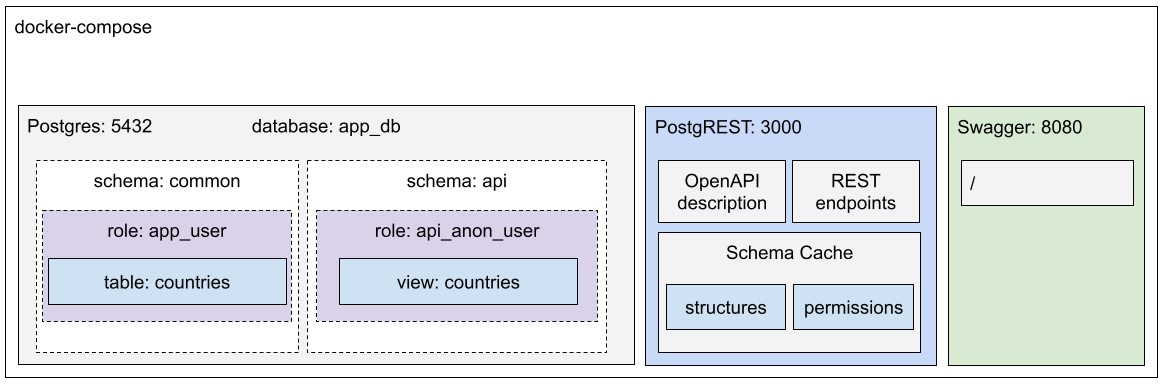
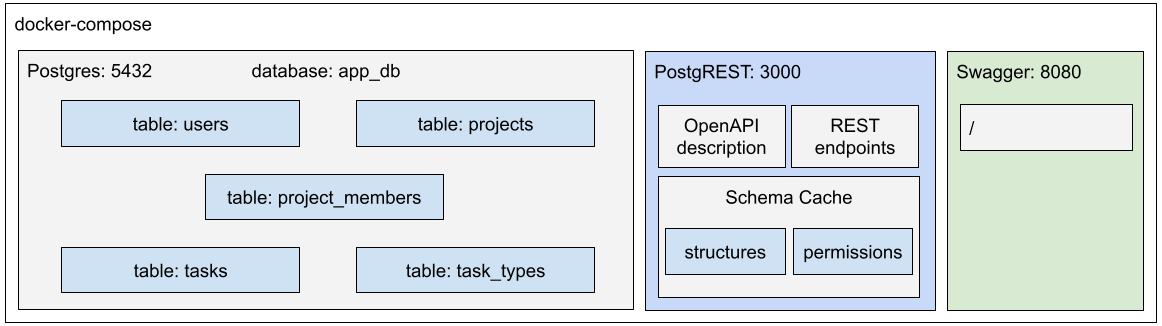
Tutorial updates

diff --git a/README.md b/README.md
@@ -40,14 +40,6 @@ The sequence of commands above fetches the microservices/containers infrastructu
 
 PS.: Links are available only locally and after starting the containers.
 
-```shell
-###########################################################################
-# DISCLAIMER: The steps outlined below are cited for documentation and explanation purposes only.
-# Therefore, it is NOT necessary to run them since the entire process of deploying the API
-# has already been carried out automatically as it is written within the Infrastructure as Code (IaC) paradigm.
-###########################################################################
-```
-
 ## Why use PostgREST?
 
 Regarding systems development, a subject that always arouses my interest is code reuse and automatic code generation. There is a fair amount of boilerplate code, especially at the project's beginning, that can be easily generated automatically using special tools.
@@ -55,27 +47,27 @@ Regarding systems development, a subject that always arouses my interest is code
 An excellent example of applying this technique can be the rapid development of a REST API, a demand common to almost all projects. In this article, we will talk about PostgREST.
 
 PostgREST allows you to deploy a robust REST API with the following functionalities list with minimal effort:
-* CRUD basic operations
-* HTTP verbs: GET, POST, PUT, PATCH, DELETE and HEAD
-* OpenAPI description
-* Authentication
-* Horizontal filtering (selecting lines)
-* Vertical filtering (selecting columns)
-* 30 different operators ([link](https://postgrest.org/en/stable/references/api/tables_views.html#operators))
-* More complicated filters and joins using views
-* Full-Text search
-* Ordering
-* Limits and Pagination
-* Resource embedding
-* Bulk insert
-* Upsert (update or insert)
-* among others
+* CRUD basic operations;
+* HTTP verbs: GET, POST, PUT, PATCH, DELETE and HEAD;
+* OpenAPI description;
+* Authentication;
+* Horizontal filtering (selecting lines);
+* Vertical filtering (selecting columns);
+* 30 different operators ([link](https://postgrest.org/en/stable/references/api/tables_views.html#operators));
+* More complicated filters and joins using views;
+* Full-Text search;
+* Ordering;
+* Limits and Pagination;
+* Resource embedding;
+* Bulk insert;
+* Upsert (update or insert);
+* among others;
 
 ## Understanding what's behind the magic
 
 ![](./doc/images/magic.gif "")
 
-According to the official website, PostgREST is a standalone web server that turns your PostgreSQL database directly into a RESTful API. The structural constraints and permissions in the database determine the API endpoints and operations.
+According to the official [website](https://postgrest.org/en/stable/), PostgREST is a standalone web server that turns your PostgreSQL database directly into a RESTful API. The structural constraints and permissions in the database determine the API endpoints and operations.
 
 ![](./doc/images/API-ecosystem-Postgrest-Workflow.png "")
 *Figure 2. API development workflow with PostgREST*
@@ -86,17 +78,17 @@ With this principle in mind, PostgREST performs a robust introspection in the da
 
 Figure 2 illustrates the development flow of a REST API using the PostgREST + Swagger ecosystem. According to the workflow above, the only necessary code input is the SQL commands responsible for defining the relational model.
 
-![](./doc/images/API-ecosystem-Postgrest-Workflow.png "")
+![](./doc/images/physical-database-model.png "")
 *Figure 3. Physical model of an example database*
 
-Figure 3 displays the physical model of the database used in this tutorial. Through the introspection of the structures present in the database, such as schemas, tables, columns, relationships, views, functions, and grant permissions, among others, PostgREST builds a cache that is used for the dynamic generation of structures that would be equivalent to the models and controllers of traditional API development. Note that in this approach, the database is not only limited to data persistence but also performs the function of being the main source of knowledge from which all information about structures and access permissions can be obtained.
+Figure 3 displays the physical model of the database used in this tutorial. Through the introspection of the structures present in the database, such as tables, columns, relationships, views, functions, and grant permissions, among others, PostgREST builds a cache that is used for the dynamic generation of structures that would be equivalent to the models and controllers writen by hand in a traditional API development. Note that in this approach, the database is not only limited to reliable data persistence but also performs the function of being the main source of knowledge from which all information about structures and access permissions can be obtained.
 
 For the implementation of CRUD endpoints, the effort is minimal, just modeling the structures in the database, which would already be done anyway. With only the input of SQLs, PostgREST can already offer the CRUD endpoints of each entity, as well as the technical description of the API in OpenAPI format. Finally, from this description, Swagger renders the documentation page (Figure 4).
 
 ![](./doc/images/swagger-example.png "")
 *Figure 4. Swagger documentation page automatically generated from the database schema*
 
-## Exposing REST endpoints
+## PostgREST configuration
 
 ![](./doc/images/API-ecosystem-Postgrest-Architecture.png "")
 *Figure 4. API ecosystem architecture with Docker-compose, Postgres, PostgREST, and Swagger*
@@ -109,7 +101,15 @@ This schema restriction, which may initially seem like a limitation, is a fundam
 
 The restriction that PostgREST will only access the schema(s) explicitly indicated guarantees isolation in which the API will only access the resources the database administrator has explicitly made available in the schema in question.
 
-In this way, the Postgres database can have numerous schemas created, but only the **api** schema (in our case) will be visible by PostgREST. PostgREST will dynamically create REST endpoints for each of the accessible tables, views, and stored procedures within the indicated schema, respecting the access permissions defined in the database.
+In this way, the Postgres database can have numerous schemas created, but only the **public** schema (in our case) will be visible by PostgREST. PostgREST will dynamically create REST endpoints for each of the accessible tables, views, and stored procedures within the indicated schema, respecting the access permissions defined in the database.
+
+```shell
+###########################################################################
+# DISCLAIMER: The steps outlined below are cited for documentation and explanation purposes only.
+# Therefore, it is NOT necessary to run them since the entire process of deploying the API
+# has already been carried out automatically as it is written within the Infrastructure as Code (IaC) paradigm.
+###########################################################################
+```
 
 Note: The schema configuration visible by PostgREST is present in the .env file, which in turn is accessed by Docker-compose and passes this information as an environment variable to the PostgREST container.
 
@@ -117,20 +117,12 @@ Note: The schema configuration visible by PostgREST is present in the .env file,
 #Excerpt from .env file
 
 # List with one or more schemas that will be served as REST API by PostgREST
-PGRST_DB_SCHEMAS = "api"
+PGRST_DB_SCHEMAS = "public"
 ```
-
-## Good practices for exposing REST endpoints with PostgREST
-
-A beneficial practice is not to directly expose the table in the schema visible by PostgREST. Keep your tables in a schema not reachable by PostgREST, and instead, put only views in the exposed schema.
-
-The first advantage is that you can have the freedom to expose a subset of the data available in the table in the API, restricting, for example, that columns and/or rows of the table are not present in the view.
-
-The second advantage is that you can use this indirection to manage different API versions. You can have an api-1.0 schema and another api-2.0 schema. Both schemas can coexist by creating different abstractions of the same database. This indirection provides the necessary freedom for database evolution while preserving legacy API versions.
 
 ## Exposing a public REST endpoint
 
-PostgREST provides the functionality to expose public REST endpoints. In this context, public are the endpoints that can be accessed without authentication. This feature should be used with great caution and is only recommended for read-only access and non-sensitive data.
+PostgREST provides the functionality to expose public REST endpoints. In this context, public are the endpoints that can be accessed without authentication. For didactical simplicity, we will do the access without authentication in this tutorial, but you can get more information about exposing endpoints with authentication in the official documentation ([link](https://postgrest.org/en/stable/references/auth.html)).
 
 To activate the resource, it is necessary to define the ROLE of the database that will be used for this public access. Only resources accessible by this ANONYMOUS ROLE will be offered in the public version of the API.
 
@@ -151,18 +143,29 @@ CREATE ROLE api_anon_user nologin;
 GRANT api_anon_user TO app_user;
 
 -- Allow api_anon_user to use the api schema
-GRANT usage on schema api to api_anon_user;
+GRANT usage on schema public to api_anon_user;
 ```
 
-The steps for creating and populating the original table will be omitted from this tutorial, however it can be found in: [SQL script to create the Common schema](./sql/001_schema_common.sql).
+The steps for creating and populating the original table will be omitted from this tutorial, however it can be found in seven SQL scripts located in: [./sql](./sql/) folder.
+
+Once that's done, it's ready! PostgREST automatically recognizes changes made to the database.
+
+## Adapting this template for your own database modeling
+
+The technology stack described in this tutorial is capable of dynamically creating a complete REST API for any Postgres database. 
+
+In this template we use the docker entrypoint feature. This feature allows some content to run after container startup. In this direction, we mapped a volume that mounts the folder [./sql](./sql/) precisely at the entrypoint of the Postgres container.
+
+This way, ONLY on the first start, Postgres creates the entire file structure for its operation. After creating this structure, it will search the entrypoint folder for SQL files and execute them. In case of any error in the files the initialization is stopped.
+
+To customize your database, I recommend that you fork this repository and change the SQL files as per your needs. So you will have a development environment that can be instantiated in seconds at any time. The second option is to connect to the database and make changes through a command prompt or GUI.
+
+## Good practices for exposing REST endpoints with PostgREST
+
+A beneficial practice is not to directly expose the table in the schema visible by PostgREST. Keep your tables in a schema not reachable by PostgREST, and instead, put only views in the exposed schema.
+
+The first advantage is that you can have the freedom to expose a subset of the data available in the table in the API, restricting, for example, that columns and/or rows of the table are not present in the view.
+
+The second advantage is that you can use this indirection to manage different API versions. You can have an api-1.0 schema and another api-2.0 schema. Both schemas can coexist by creating different views abstractions of the same database. This indirection provides the necessary freedom for database evolution while preserving support for legacy API versions.
 
 Once equipped with the original table, the next step is to create a view accessible as read-only by the ROLE api_anon_user. Remembering that even though it is a VIEW, it is still important to specify that access is read-only, as both Postgres and PostgREST support the [updatable views](https://www.postgresql.org/docs/current/sql-createview.html#SQL-CREATEVIEW-UPDATABLE-VIEWS) feature.
-
-```sql
--- Excerpt from sql/002_schema_api_anon_access.sql file
-CREATE OR REPLACE VIEW api.countries AS
-  SELECT id, iso, name, nicename, iso3, numcode, phonecode
-  FROM common.countries;
-
-GRANT SELECT ON TABLE api.countries TO api_anon_user
-```
